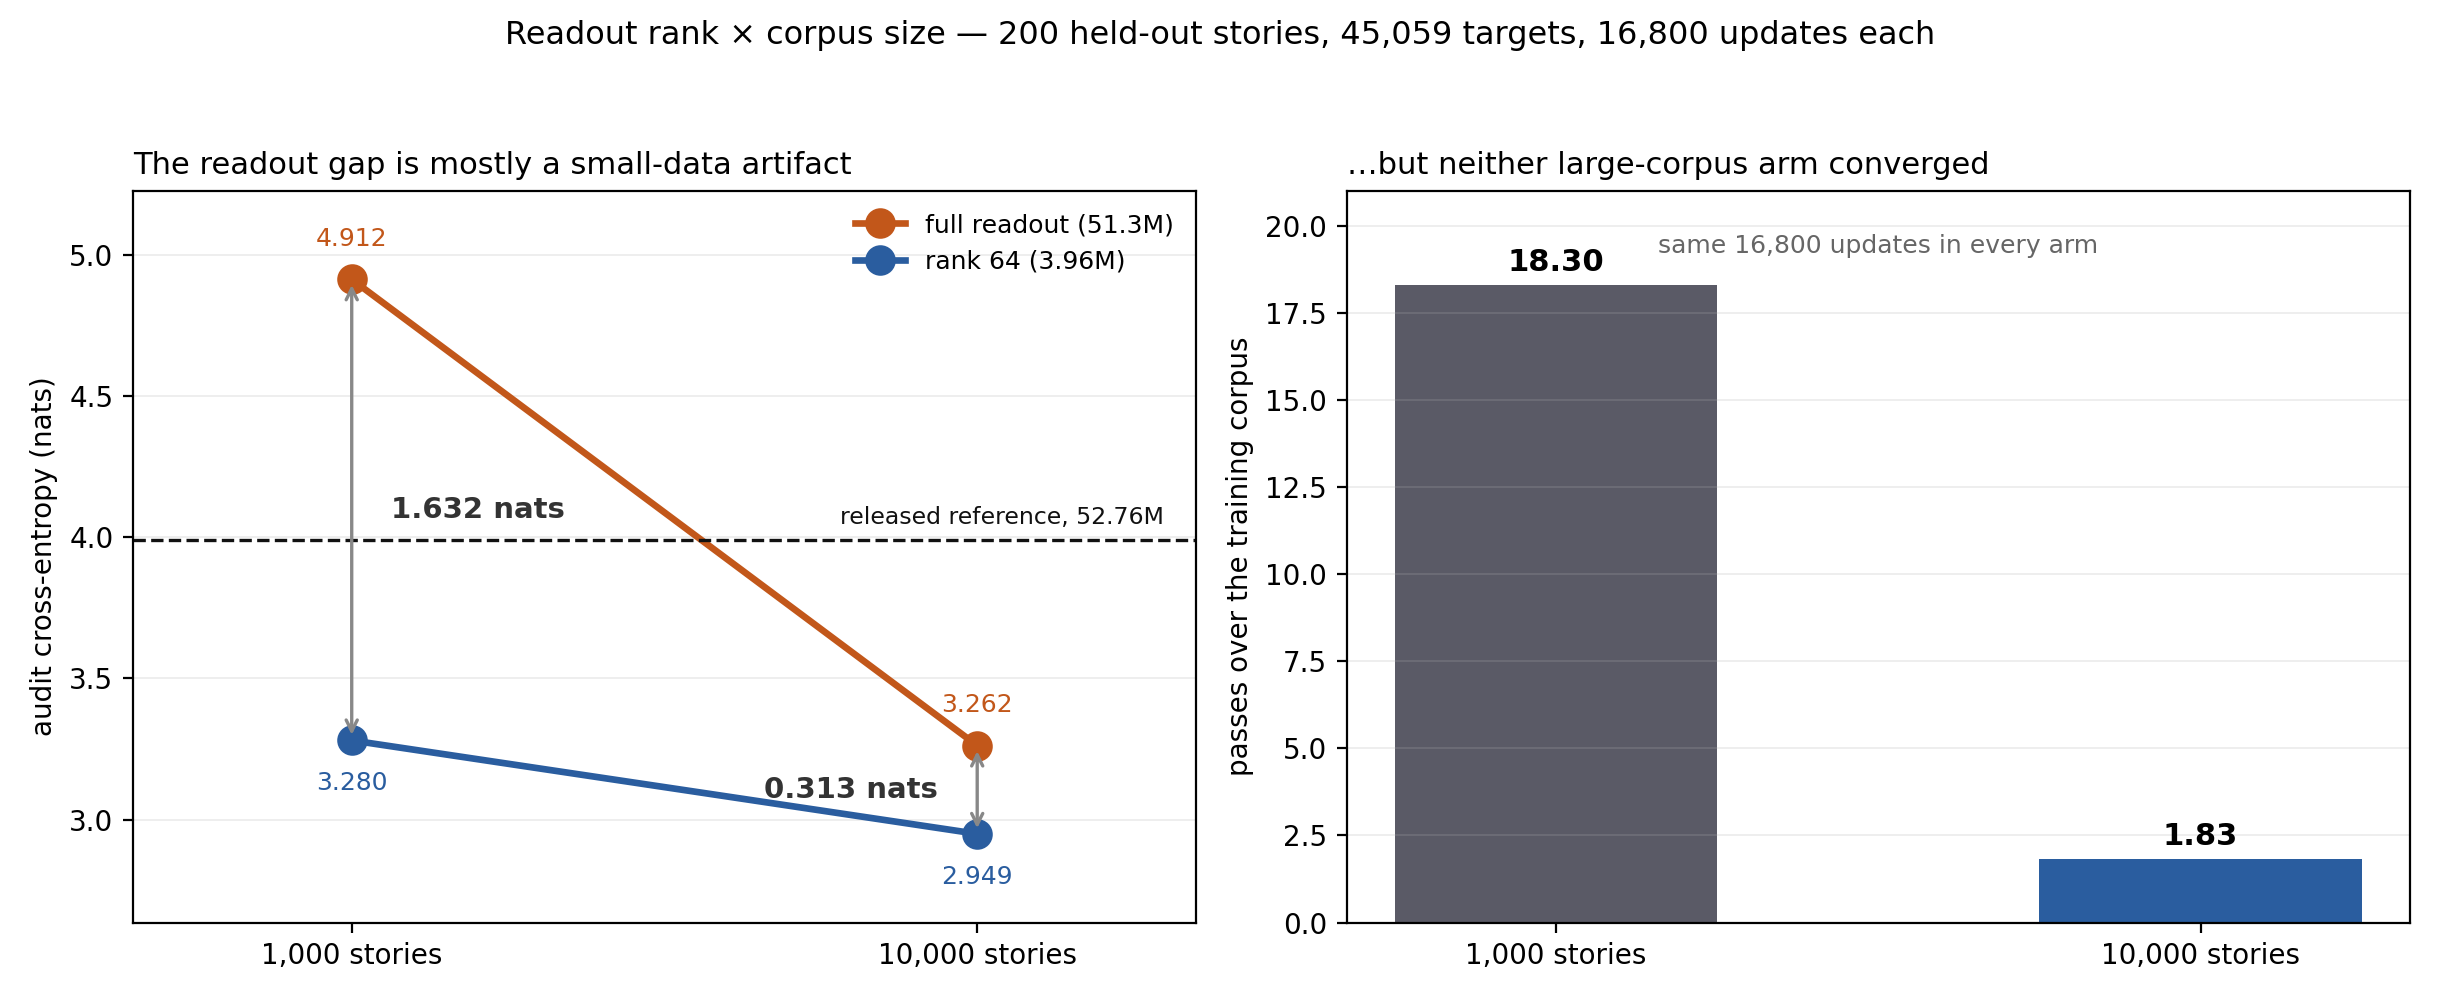
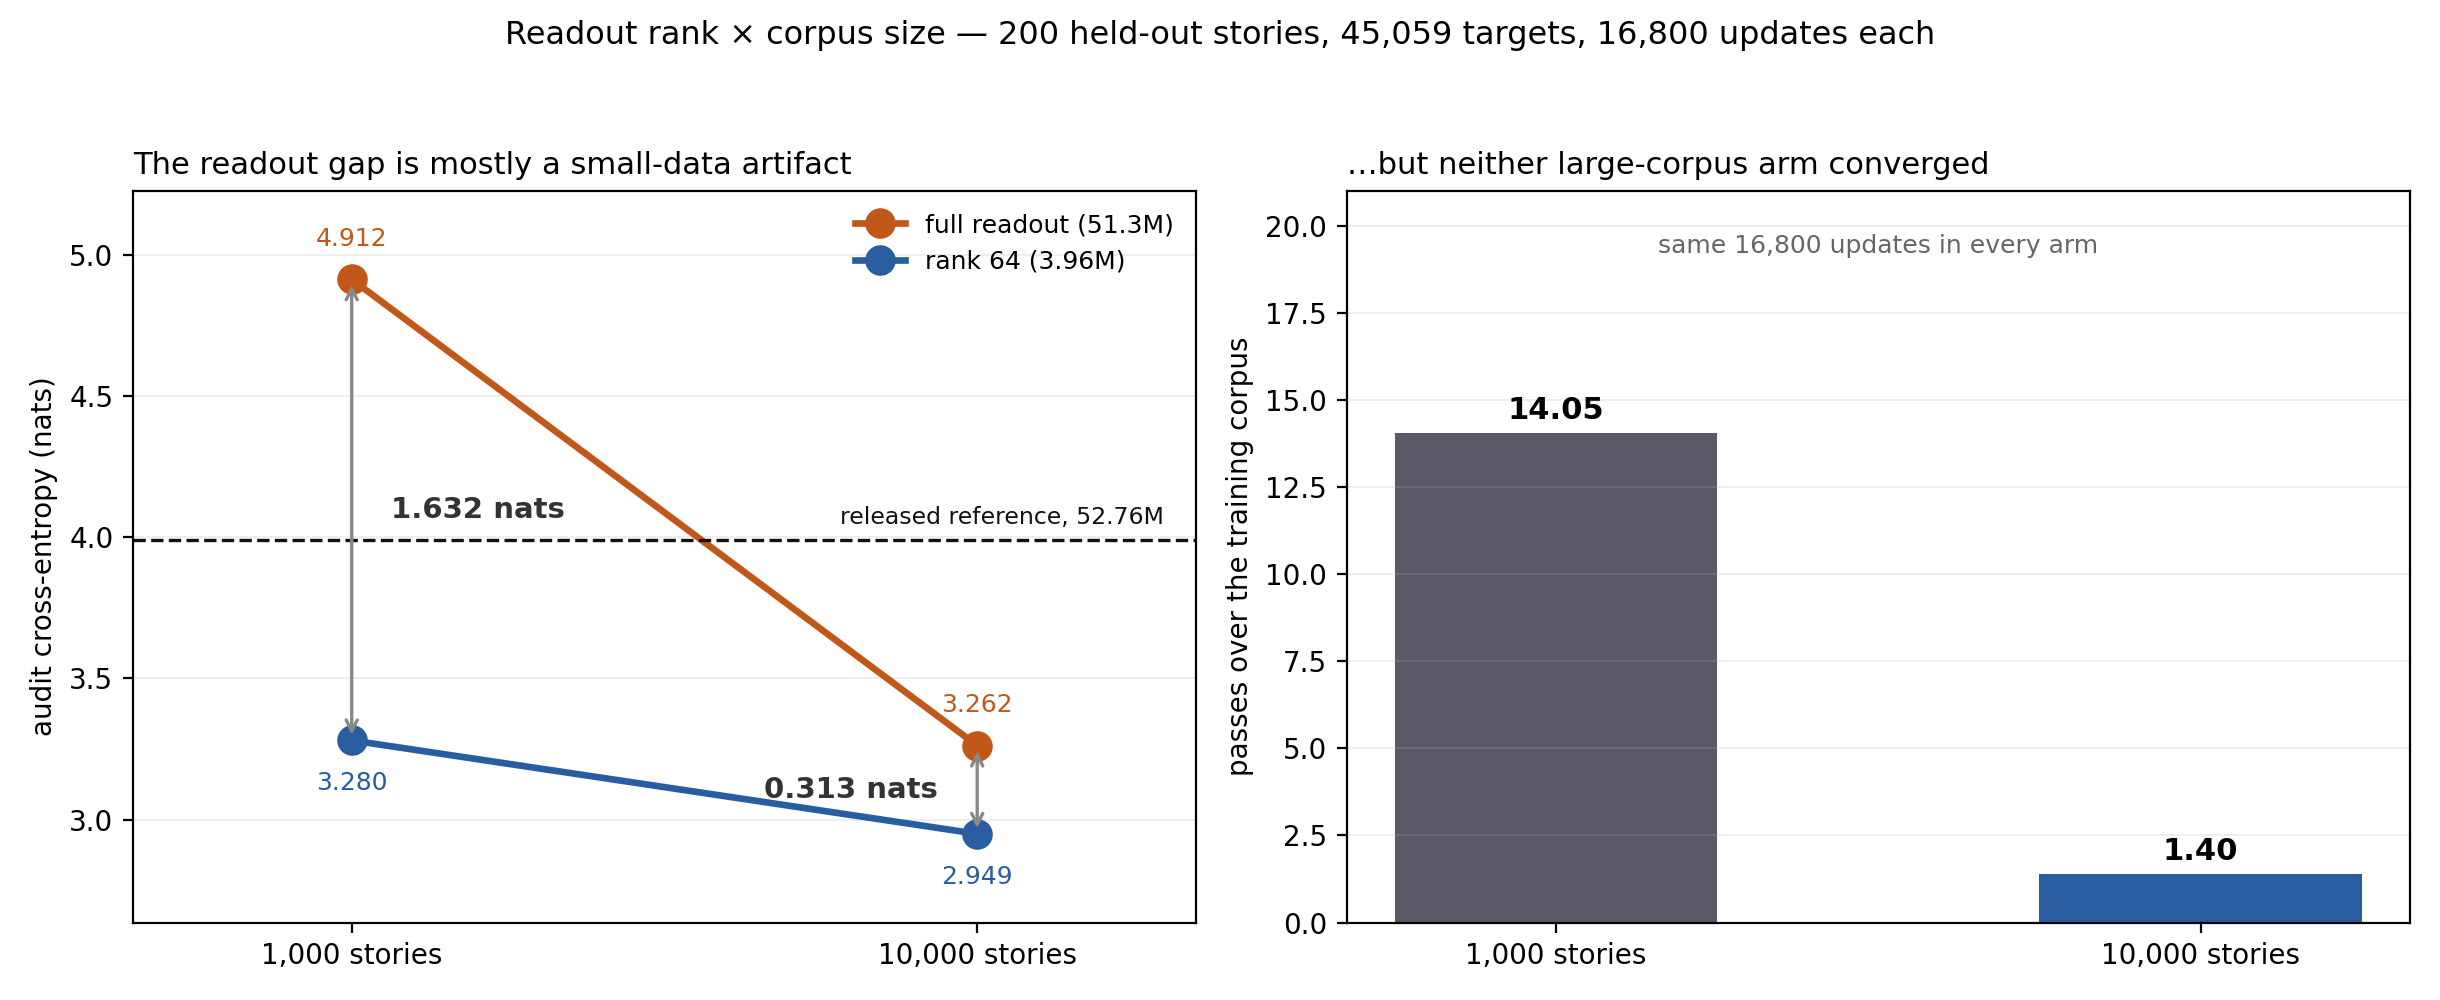
Correct the corpus pass counts: 1.40 and 14.05, not 1.83 and 18.3
Every arm's manifest records the measured epoch length, and it does not match what this
repository has been claiming. One pass over the 1,000-story corpus is 1,196 updates and
one pass over the 10,000-story corpus is 12,042, identical across all fifteen arms at
batch 8 / chunk 32. So the 16,800-update budget is 14.05 passes of the small corpus and
1.40 of the large one, not the 18.3 and 1.83 stated in the top-level README, the Stage 6
and 7 write-ups, the experiment registry, three HuggingFace model cards, the Space page,
a plotting script and two machine-readable records.

The old figures follow from an assumed 918-update epoch, which nothing measured supports;
the 10x scaling to 9,180 was fine, the base was not. The error overstated every arm's data
exposure by 31%.

No measured score moves. All arms ran the same 16,800 updates and every published
comparison is matched, so the readout, corpus-size and graph-control results stand exactly
as reported. What changes is the convergence caveat, which is now stronger than it was
written: the 10k arms saw 1.40 passes, not 1.83.

package_control_release.py now derives passes from a named measured constant instead of
carrying 1.83 inline, and the figure regenerates from the corrected script. A test pins
the arithmetic, records where the wrong figures came from so the error stays legible, and
scans every file git tracks for the superseded strings. That scan earned its keep
[…]

Changed region(s): [[0.5607, 0.248, 0.7164, 0.434], [0.841, 0.806, 0.9656, 0.899]]

diff --git a/space/index.html b/space/index.html
@@ -128,7 +128,7 @@
             or signs of individual synapses.
           </p>
           <p>
-            Trained on 10,000 TinyStories at a 16,800-update budget — 1.83 passes, so it is
+            Trained on 10,000 TinyStories at a 16,800-update budget — 1.40 passes, so it is
             not converged. It scores 2.9493 cross-entropy on a held-out population, against
             3.9882 for the 52,756,661-parameter model it derives from.
           </p>

diff --git a/tests/test_corpus_passes.py b/tests/test_corpus_passes.py
@@ -1,0 +1,83 @@
+"""Passes over the corpus are derived from the measured epoch, never restated.
+
+The repository claimed 16,800 updates was "18.3 passes" of the 1,000-story corpus and
+"1.83" of the 10,000-story one, in the top-level README, two HuggingFace model cards, the
+Stage 6 and 7 write-ups, a plotting script and two machine-readable records. Both numbers
+came from an assumed 918-update epoch. Every arm's manifest records the real figures --
+1,196 updates for 1,000 stories and 12,042 for 10,000 -- so the true counts are 14.05 and
+1.40, and the claim overstated each arm's data exposure by 31%.
+
+No measured score depended on it: all arms ran the same 16,800 updates and every published
+comparison is matched. What it distorted was the convergence caveat, which is *stronger*
+than it was written, not weaker.
+"""
+import json
+import pathlib
+import re
+import subprocess
+import unittest
+
+ROOT = pathlib.Path(__file__).resolve().parents[1]
+
+EPOCH_UPDATES = {1000: 1196, 10000: 12042}
+BUDGET = 16800
+
+
+class MeasuredEpochTests(unittest.TestCase):
+    def test_the_ten_thousand_story_epoch_is_not_ten_times_the_thousand_story_one(self):
+        # The old constant assumed exact 10x scaling from a 918-update epoch. Neither holds.
+        self.assertNotEqual(EPOCH_UPDATES[10000], EPOCH_UPDATES[1000] * 10)
+        self.assertAlmostEqual(EPOCH_UPDATES[10000] / EPOCH_UPDATES[1000], 10.07, places=2)
+
+    def test_the_published_pass_counts_follow_from_the_measured_epochs(self):
+        self.assertAlmostEqual(BUDGET / EPOCH_UPDATES[1000], 14.05, places=2)
+        self.assertAlmostEqual(BUDGET / EPOCH_UPDATES[10000], 1.40, places=2)
+
+    def test_the_superseded_figures_are_what_a_918_update_epoch_would_give(self):
+        # Documents where 18.3 and 1.83 came from, so the error is legible rather than odd.
+        self.assertAlmostEqual(BUDGET / 918, 18.3, places=1)
+        self.assertAlmostEqual(BUDGET / 9180, 1.83, places=2)
+
+
+class NoStaleFiguresTests(unittest.TestCase):
+    """Nothing user-facing may still quote the superseded counts."""
+
+    def files(self):
+        """Every file git tracks or would track -- not build output.
+
+        Scanning the working tree instead pulls in `space/dist/`, which is gitignored
+        generated output. That copy IS what HuggingFace serves, so it needs rebuilding and
+        republishing, but it is not a source file and cannot be fixed by editing it.
+        This mirrors how `check_markdown_links.py` scopes itself.
+        """
+        listing = subprocess.run(
+            ["git", "ls-files", "--cached", "--others", "--exclude-standard"],
+            cwd=ROOT, capture_output=True, text=True, check=True).stdout.split("\n")
+        for name in listing:
+            if not name or name.endswith(pathlib.Path(__file__).name):
+                continue
+            p = ROOT / name
+            if p.suffix.lower() in (".md", ".py", ".json", ".html", ".svg", ".txt") and p.is_file():
+                yield p
+
+    def test_no_file_still_claims_the_old_pass_counts(self):
+        stale = []
+        for p in self.files():
+            try:
+                text = p.read_text()
+            except (UnicodeDecodeError, OSError):
+                continue
+            for line in text.splitlines():
+                if re.search(r"\b18\.3 passes|\b1\.83 passes|only \*\*1\.83\*\*", line):
+                    stale.append(f"{p.relative_to(ROOT)}: {line.strip()[:90]}")
+        self.assertEqual(stale, [], "superseded pass counts still present:\n" + "\n".join(stale))
+
+    def test_the_packager_derives_passes_rather_than_hardcoding_them(self):
+        source = (ROOT / "scripts/package_control_release.py").read_text()
+        self.assertIn("EPOCH_UPDATES_10K = 12042", source)
+        self.assertNotIn('"passes_over_corpus": 1.83', source)
+        self.assertIn('status["updates"] / EPOCH_UPDATES_10K', source)
+
+
+if __name__ == "__main__":
+    unittest.main()

diff --git a/scripts/package_control_release.py b/scripts/package_control_release.py
@@ -24,6 +24,12 @@ from safetensors.torch import save_file
 ROOT = Path(__file__).resolve().parents[1]
 
 
+# Measured, not assumed: one pass over the 10,000-story corpus at batch 8 / chunk 32.
+# Every arm's manifest records this identically. A 10x scaling of the 1,000-story
+# epoch (1,196) would give 11,960; the real figure is 12,042, and an earlier constant
+# of 9,180 overstated every arm's data exposure by 31%.
+EPOCH_UPDATES_10K = 12042
+
 def digest(path):
     h = hashlib.sha256()
     with open(path, "rb") as fh:
@@ -127,7 +133,9 @@ def main():
         "training": {
             "corpus": "10,000 TinyStories (identical corpus and splits to the arm it controls)",
             "corpus_sha256": spec["dataset_sha256"],
-            "updates": status["updates"], "passes_over_corpus": 1.83, "budget_capped": True,
+            "updates": status["updates"],
+            "passes_over_corpus": round(status["updates"] / EPOCH_UPDATES_10K, 2),
+            "budget_capped": True,
             "status": "debug_stopped — the trainer's label for an update cap, not a failure",
             "converged": False, "seed": spec["training"]["seed"],
             "host": "Apple M3 Max, PyTorch MPS",

diff --git a/scripts/plot_corpus_size.py b/scripts/plot_corpus_size.py
@@ -64,7 +64,7 @@ def main():
     left.legend(frameon=False, fontsize=9, loc="upper right")
     left.grid(True, axis="y", alpha=.25, linewidth=.6)
 
-    passes = [18.3, 1.83]
+    passes = [14.05, 1.40]
     bars = right.bar([0, 1], passes, color=["#5a5a66", "#2a5d9f"], width=.5)
     for bar, value in zip(bars, passes):
         right.annotate(f"{value:.2f}", (bar.get_x() + bar.get_width() / 2, value),

diff --git a/README.md b/README.md
@@ -227,8 +227,8 @@ generalise from. The prediction held.
 
 What survives is smaller and less certain: 0.313 nats and 1.67 accuracy points at matched
 compute, with the 3,956,469-parameter model still best overall at **CE 2.9493 / 37.43%**,
-now **1.039 nats** below the released reference. But 16,800 updates is 18.3 passes over
-1,000 stories and only **1.83** over 10,000, so **neither large-corpus arm converged** — the
+now **1.039 nats** below the released reference. But 16,800 updates is 14.05 passes over
+1,000 stories and only **1.40** over 10,000, so **neither large-corpus arm converged** — the
 residual could equally be the smaller model reaching its plateau sooner. Separating those
 needs both trained to convergence, which we have not done.
 
@@ -354,7 +354,7 @@ model = ct.nn.ConnectomeRNN(brain, weights="trainable", backend="metal_csr").to(
   as [fly-wordbrain-fullreadout-10k](https://huggingface.co/fernandofernandes/fly-wordbrain-fullreadout-10k).
 
 The 10k weights ship inside the rank-64 repo under `corpus-10k/`. They are **budget-capped at
-16,800 updates (1.83 passes), not trained to convergence** — the trainer marks them
+16,800 updates (1.40 passes), not trained to convergence** — the trainer marks them
 `debug_stopped`, which flags the cap rather than a failure.
 
 We keep the **lowest-validation-CE** and **highest-validation-accuracy** weights as separate

diff --git a/experiments/06-corpus-size/README.md b/experiments/06-corpus-size/README.md
@@ -70,8 +70,8 @@ A residual advantage remains: **0.3126 nats and 1.67 accuracy points** at matche
 and the 3,956,469-parameter model is still the best of the four — now **1.039 nats** below
 the released 52,756,661-parameter reference.
 
-**But neither 10k arm converged.** 16,800 updates is 18.3 passes over 1,000 stories and only
-**1.83** over 10,000. The residual gap is therefore consistent with two different stories:
+**But neither 10k arm converged.** 16,800 updates is 14.05 passes over 1,000 stories and only
+**1.40** over 10,000. The residual gap is therefore consistent with two different stories:
 
 1. a genuine remaining quality advantage for the constrained readout, or
 2. a **convergence-rate** difference — the smaller model simply reaching its plateau in

diff --git a/space/README.md b/space/README.md
@@ -65,7 +65,7 @@ it is.
 We also tested whether the low-rank advantage was real or just an artifact of a small
 corpus: at 10× the data the gap between a full and a low-rank readout collapses from 1.632
 nats to 0.313, so about four fifths of it was scarcity. This demo runs the 10,000-story
-weights, which score **2.9493** against the reference's 3.9882 — though at 1.83 passes they
+weights, which score **2.9493** against the reference's 3.9882 — though at 1.40 passes they
 are not converged.
 
 Model: [fly-wordbrain-rank64](https://huggingface.co/fernandofernandes/fly-wordbrain-rank64) ·

diff --git a/experiments/07-graph-control/README.md b/experiments/07-graph-control/README.md
@@ -156,7 +156,7 @@ not run.
 
 Other limits, stated plainly: **one seed and one shuffle.** A degree-preserving global
 permutation is a strong randomisation but not the only one, and a second seed would show how
-much of the 0.0100 nats is run-to-run noise. Both arms remain budget-capped at 1.83 passes
+much of the 0.0100 nats is run-to-run noise. Both arms remain budget-capped at 1.40 passes
 over the corpus, so this is a matched-budget comparison, not a converged one.
 
 Arm K is budget-capped, so the trainer records it as `debug_stopped` with `debug: true`.

diff --git a/experiments/README.md b/experiments/README.md
@@ -58,7 +58,7 @@ rests on the multi-task arms alone.
 
 The two 10k arms are **budget-capped**, not plateau-stopped: they were given exactly 16,800
 updates to match G's compute, so the trainer records them as `debug_stopped` with
-`debug: true`. That flags the cap, not a failure. They completed 1.83 passes over their
+`debug: true`. That flags the cap, not a failure. They completed 1.40 passes over their
 corpus and are **not converged**; read [Stage 6](06-corpus-size/README.md) before quoting
 their numbers.
 
